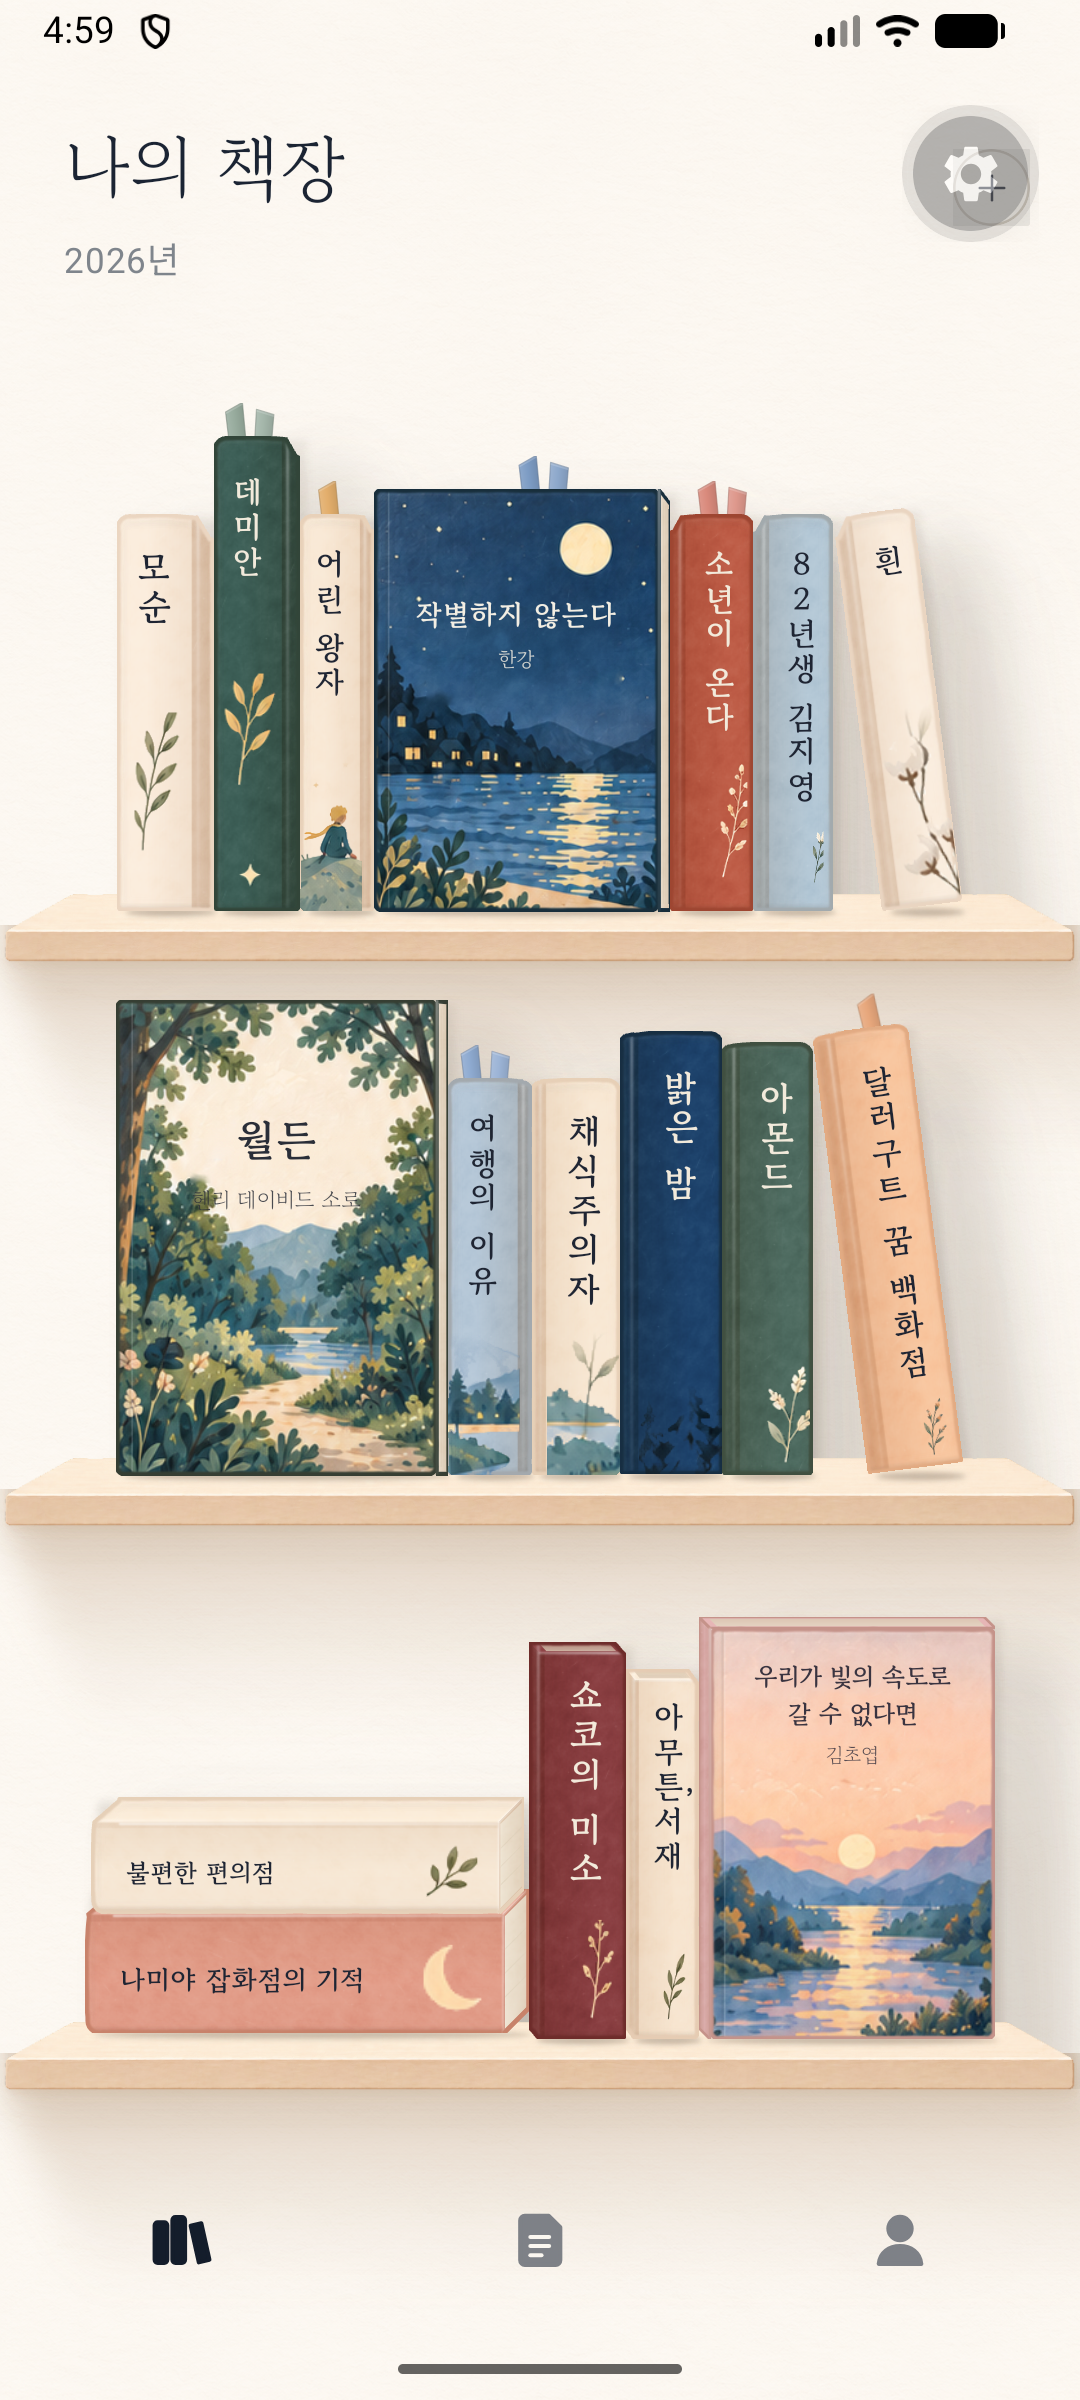
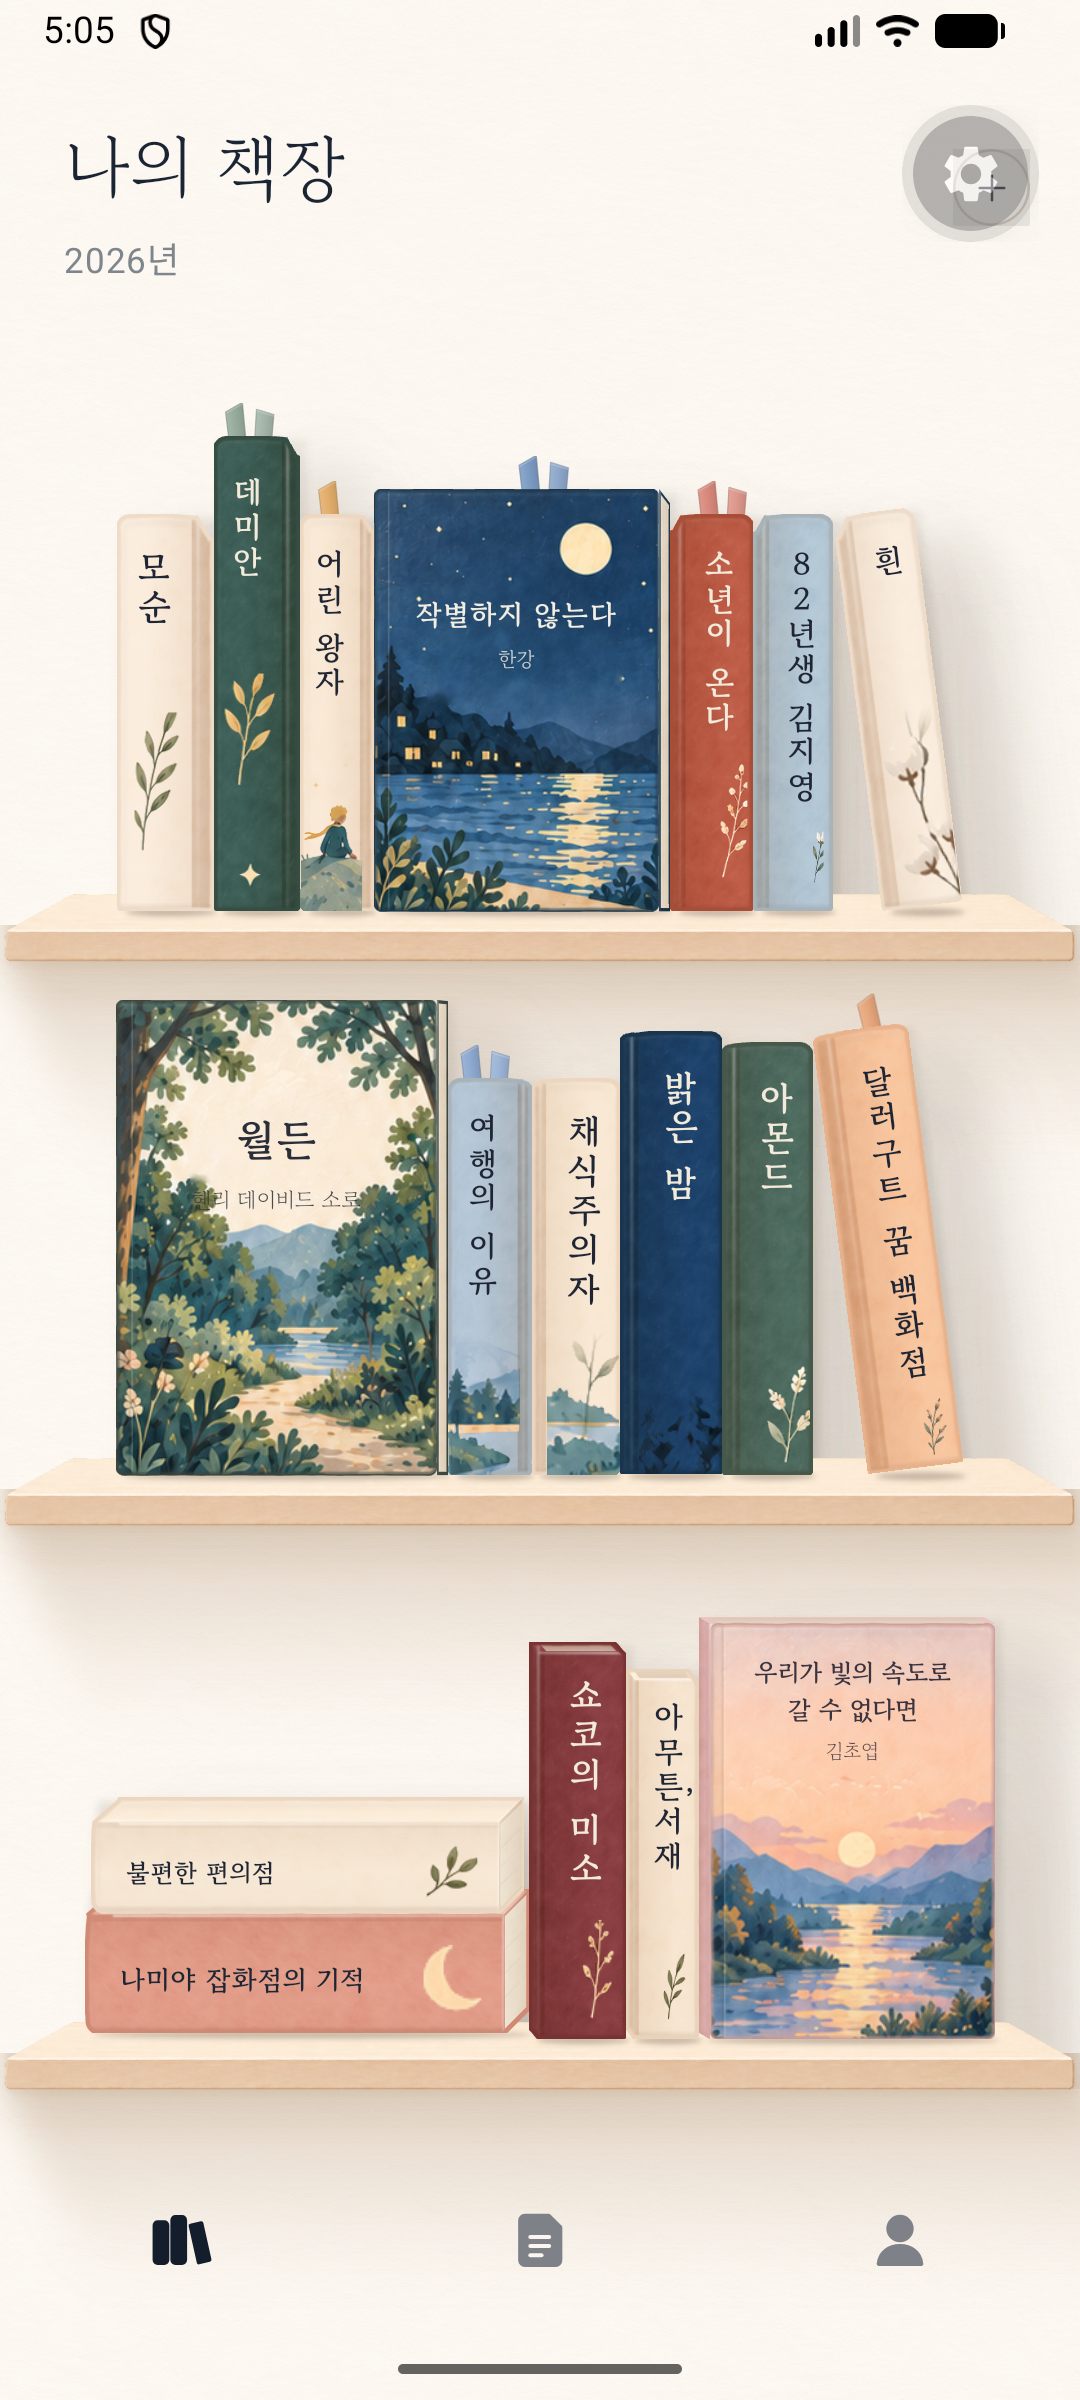
테두리 연하게, 표지 책 면 사이 선 없애고 색 차이로만 구분

diff --git a/app/src/ui/book/BookBody.tsx b/app/src/ui/book/BookBody.tsx
@@ -124,7 +124,7 @@ export function luminance(hex: string) {
 }
 
 // 실루엣 가장자리 선: 책 색을 어둡게 한 같은 색(회색 아님). 시안은 어두운 책일수록 선이 진하다.
-export const edgeFactor = (face: string) => 0.62 + 0.3 * luminance(face);
+export const edgeFactor = (face: string) => 0.74 + 0.2 * luminance(face); // 선은 구분만 될 만큼(진하면 틀처럼 보인다)
 
 // 결정적 잡음(책마다 같은 모양)
 function jitter(seed: string) {
@@ -282,17 +282,17 @@ function RimLight({ outline, w, h, s, lying = false }: { outline: SkPath; w: num
 }
 
 // 가장자리 선: 책 색을 어둡게 한 또렷한 선 + 조금 어긋난 두 번째 선(굵기가 고르지 않은 손그림 선)
-function EdgeLine({ outline, outline2, s, face }: { outline: SkPath; outline2: SkPath; s: number; face: string }) {
+function EdgeLine({ outline, outline2, s, face, opacity = 1 }: { outline: SkPath; outline2: SkPath; s: number; face: string; opacity?: number }) {
   const edge = scaleColor(face, edgeFactor(face));
   return (
-    <>
+    <Group opacity={opacity}>
       <Path path={outline} style="stroke" strokeWidth={2.2 * s} color={edge}>
         <BlurMask blur={0.3 * s} style="normal" />
       </Path>
       <Path path={outline2} style="stroke" strokeWidth={2.2 * s} color={edge} opacity={0.3}>
         <BlurMask blur={0.35 * s} style="normal" />
       </Path>
-    </>
+    </Group>
   );
 }
 
@@ -559,7 +559,7 @@ export const LyingBody = memo(function LyingBody({ id, width: len, height: H, sc
 
 // 표지 전시: 앞표지(그림 또는 책 색) + 오른쪽 얇은 속지 단면
 // 표지 전시 책의 윗면 높이(px): 내려다보는 줄에서만 보인다(세운 책과 같은 규칙)
-export const coverTopH = (viewY: number, s: number) => (viewY > 0 ? TOP_VIEW * viewY * s : 0);
+export const coverTopH = (viewY: number, s: number) => (viewY > 0 ? TOP_VIEW * 0.6 * viewY * s : 0); // 표지 책은 얇게(두께가 작다)
 
 // 표지 전시: 앞표지 + 뒤로 물러나는 옆면(평행사변형) + 내려다볼 때 윗면. 책은 오른쪽으로 열리므로
 // 왼쪽 옆면 = 책등(책 색), 오른쪽 옆면 = 여는 쪽 종이 단면(앞뒤 표지 판 사이 아이보리).
@@ -625,40 +625,39 @@ export const CoverBody = memo(function CoverBody({
   const edgeC = scaleColor(tone, edgeFactor(tone));
   return (
     <Canvas style={{ width: fw + d, height: h }}>
-      {/* 옆면 */}
-      <Group clip={faces.sideFace}>
+      {/* 옆면(채움은 Path로 해야 비스듬한 가장자리가 매끈하다) */}
+      <Path path={faces.sideFace}>
         {mirror ? (
           // 책등: 빛(왼쪽 위)을 향해 밝고, 둥근 등이라 가운데가 조금 더 밝다
-          <Rect x={0} y={0} width={d} height={h}>
-            <LinearGradient start={vec(0, 0)} end={vec(d, 0)} colors={[scaleColor(tone, 0.86), scaleColor(tone, 0.97), scaleColor(tone, 0.9)]} />
-          </Rect>
+          <LinearGradient start={vec(0, 0)} end={vec(d, 0)} colors={[scaleColor(tone, 0.9), scaleColor(tone, 0.97), scaleColor(tone, 0.93)]} />
         ) : (
-          <>
-            {/* 여는 쪽: 앞뒤 표지 판(책 색) 사이로 종이 단면. 빛 반대쪽이라 어둡고 뒤로 갈수록 더 어둡다 */}
-            <Rect x={fw} y={0} width={d} height={h}>
-              <LinearGradient start={vec(fw, 0)} end={vec(fw + d, 0)} colors={[scaleColor(tone, 0.8), scaleColor(tone, 0.7)]} />
-            </Rect>
-            <Path path={faces.pages}>
-              <LinearGradient start={vec(fw, 0)} end={vec(fw + d, 0)} colors={[scaleColor(PAGE, 0.94), scaleColor(PAGE, 0.84)]} />
-            </Path>
-            {faces.lines.map((l, i) => (
-              <Path key={i} path={l} style="stroke" strokeWidth={0.5} color={PAGE_LINE} opacity={0.8} />
-            ))}
-          </>
+          // 여는 쪽: 앞뒤 표지 판(책 색). 빛 반대쪽이라 조금 어둡다
+          <LinearGradient start={vec(fw, 0)} end={vec(fw + d, 0)} colors={[scaleColor(tone, 0.88), scaleColor(tone, 0.8)]} />
         )}
+      </Path>
+      {mirror ? null : (
+        <>
+          {/* 판 사이로 보이는 아이보리 종이 단면 */}
+          <Path path={faces.pages}>
+            <LinearGradient start={vec(fw, 0)} end={vec(fw + d, 0)} colors={[scaleColor(PAGE, 0.94), scaleColor(PAGE, 0.86)]} />
+          </Path>
+          {faces.lines.map((l, i) => (
+            <Path key={i} path={l} style="stroke" strokeWidth={0.5} color={PAGE_LINE} opacity={0.6} />
+          ))}
+        </>
+      )}
+      <Group clip={faces.sideFace}>
         <Grain w={fw + d} h={h} s={s} image={grain} />
       </Group>
-      <Path path={faces.sideFace} style="stroke" strokeWidth={0.9 * s} strokeJoin="round" color={edgeC} antiAlias />
       {/* 윗면(내려다볼 때): 앞뒤 표지 판 사이 종이 */}
       {faces.top ? (
         <>
-          <Path path={faces.top} color={scaleColor(tone, 1.04)} />
+          <Path path={faces.top} color={mix(scaleColor(tone, 1.02), PAGE, 0.35)} />
           {faces.topPages ? (
             <Path path={faces.topPages}>
               <LinearGradient start={vec(0, topH)} end={vec(0, 0)} colors={[mix(scaleColor(PAGE, 0.92), tone, 0.1), mix(scaleColor(PAGE, 0.84), tone, 0.15)]} />
             </Path>
           ) : null}
-          <Path path={faces.top} style="stroke" strokeWidth={0.9 * s} strokeJoin="round" color={edgeC} antiAlias />
         </>
       ) : null}
       {/* 앞표지 */}
@@ -680,9 +679,10 @@ export const CoverBody = memo(function CoverBody({
             <LinearGradient start={vec(0, 0)} end={vec(fw, ch)} colors={['rgba(255,255,255,0.08)', 'rgba(255,255,255,0)', 'rgba(0,0,0,0.08)']} positions={[0, 0.45, 1]} />
           </Rect>
           <RimLight outline={outline} w={fw} h={ch} s={s} />
-          <EdgeLine outline={outline} outline2={outline2} s={s} face={tone} />
+          {/* 표지 그림은 그 자체로 경계가 보이므로 선은 반만(진하면 액자처럼 보인다) */}
+          <EdgeLine outline={outline} outline2={outline2} s={s} face={tone} opacity={image ? 0.5 : 1} />
         </Group>
-        <Path path={outline} style="stroke" strokeWidth={0.9 * s} color={edgeC} antiAlias />
+        <Path path={outline} style="stroke" strokeWidth={0.6 * s} color={edgeC} opacity={0.8} antiAlias />
       </Group>
       {/* 앞표지와 옆면이 꺾이는 모서리의 빛 반사(위가 밝고 아래로 사라진다) */}
       <Path path={faces.front} style="stroke" strokeWidth={0.9 * s}>
